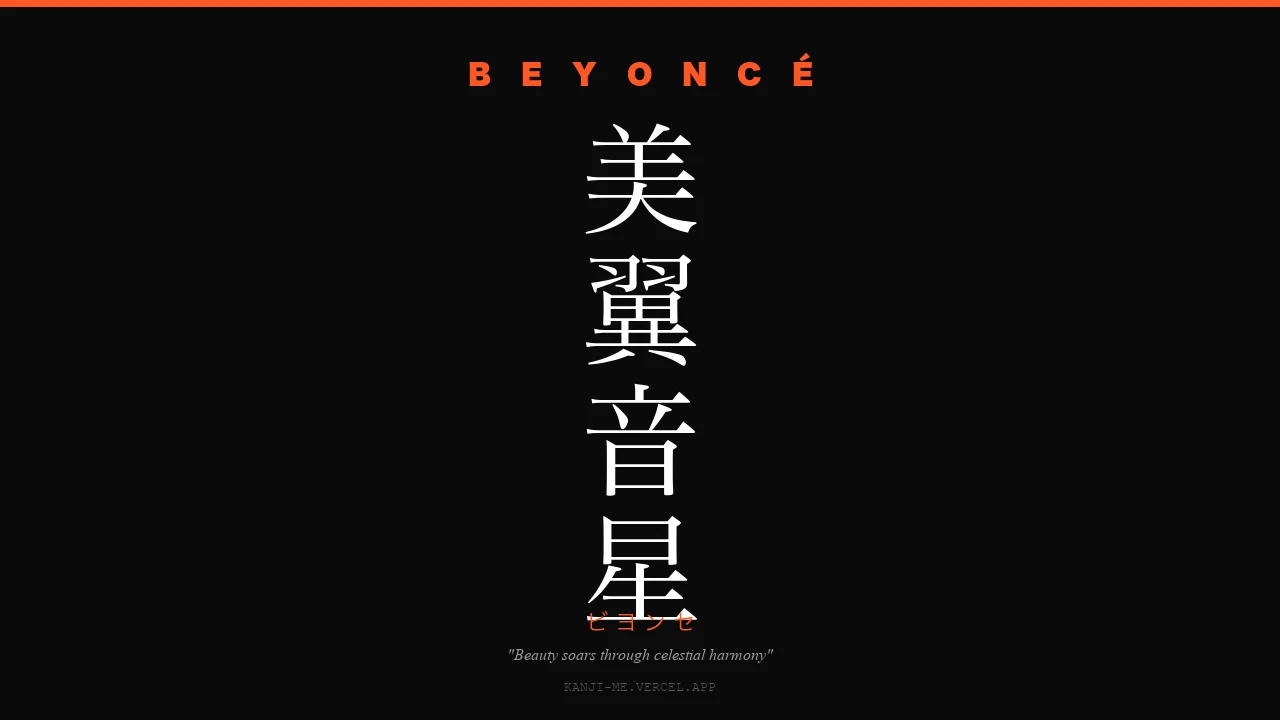
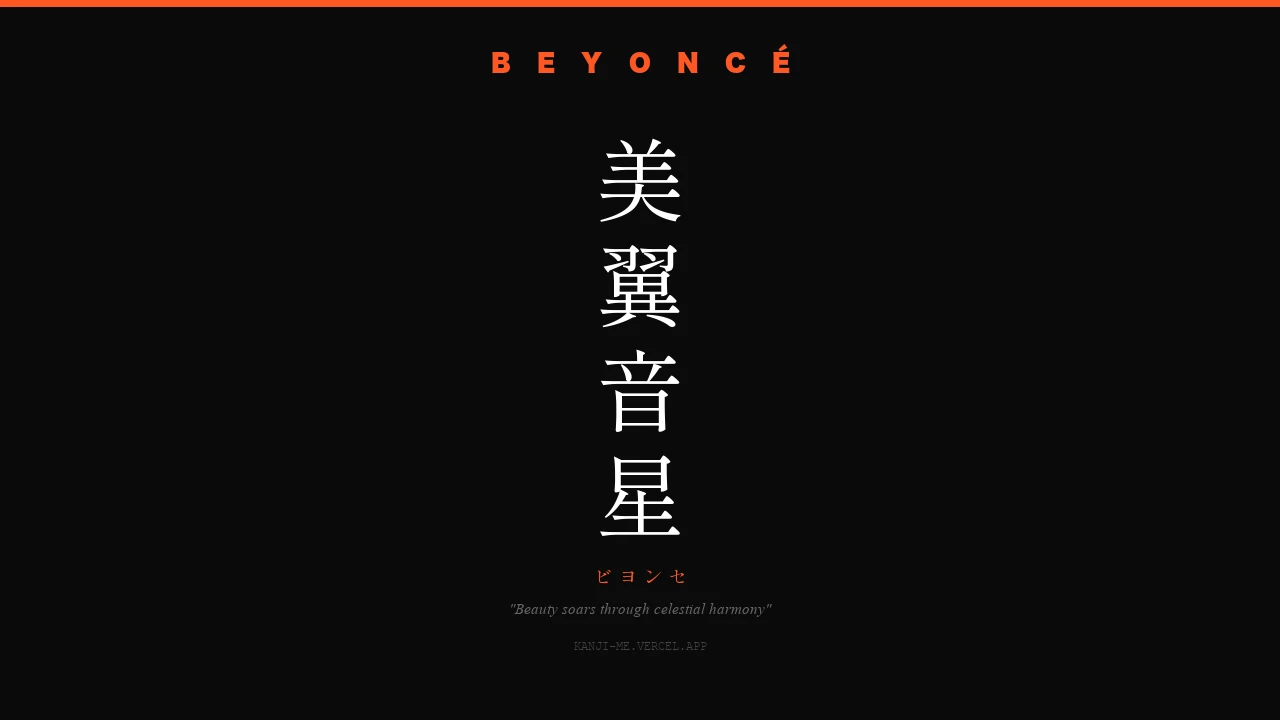
サムネ修正: KANJI ME(しっぽり明朝・サイズ調整), ASCII Art(タイトル帯削除), 名刺バトラー(名刺のみ), 走馬灯(動画フレーム横一線), 生成新聞(ogp使用), INFINITE WINDOW(ogp使用), nines(元に戻す) + cache buster v4

diff --git a/index.html b/index.html
@@ -316,7 +316,7 @@
         const title = item.title;
         const href = item.url ? ` href="${item.url}" target="_blank" rel="noopener"` : '';
         const slug = slugify(item.url);
-        const thumbUrl = `thumbs/${slug}.webp?v=3`;
+        const thumbUrl = `thumbs/${slug}.webp?v=4`;
         const hiddenClass = idx >= VISIBLE_COUNT ? ' hidden-panel' : '';
 
         let badgeHtml = '';
